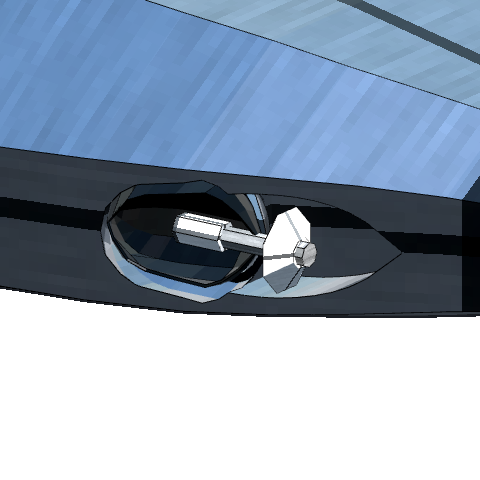
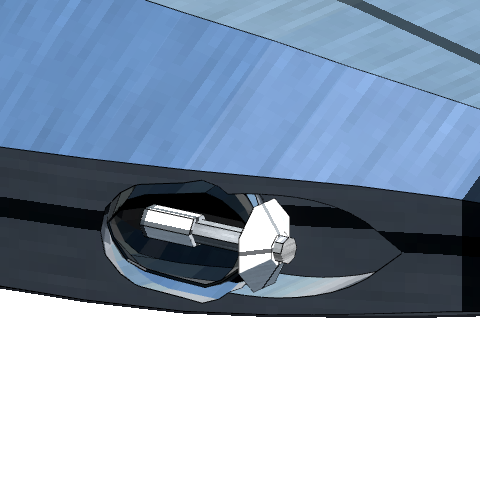
The Needletail's port rack and port dish from one root at the bay's back, at one diameter
The rack's drum and the dish's sleeve both start just ahead of the gun's root, so the drum runs
the bay's length and the sleeve rises from its back rather than its middle; both at 0.65 on the
pin, the dish the rack's diameter (Ryan's of the Kite's, 12 November: "same diameter as the
rack"). The two close-ups and the hangar note follow. 1168 tests, 372,142 checks, green.

Claude-Session: https://claude.ai/code/session_017ZqTNddNh63yVRDLZqU1ZV

Changed region(s): [[0.2812, 0.4062, 0.6562, 0.625]]

diff --git a/tools/lowforge/models_low.py b/tools/lowforge/models_low.py
@@ -5942,10 +5942,11 @@ def needletail(b):
     PIN = YC - 1.5 + RUN - 7.68    # the gun's mount at rest, run out, its muzzle just clear of the nose (the port gun is 7.68 long here)
     # Each class rooted in the open bay and run out of the port, none ahead of it on nothing (Ryan,
     # 13 November: "racks, blades and dishes still float out of the front gun ports"): the port
-    # rack's drum and the port dish's sleeve from the bay's widest, the blade's bracket filling it,
-    # the twin barrels' receiver in it.
-    CHEEK_FITS = {"barrel": ("barrel_port", 1.0), "twin_barrel": ("twin_barrel", 0.55, -6.4), "rack": ("rack_port", 0.6, -1.75),
-                  "dish": ("dish_port", 0.6, -3.0), "blade": ("blade", 0.55, -4.0)}
+    # rack's drum and the port dish's sleeve from one root at the bay's back, just ahead of the
+    # gun's, at one diameter (of the Kite's, 12 November: "same diameter as the rack"), the blade's
+    # bracket filling the bay, the twin barrels' receiver in it.
+    CHEEK_FITS = {"barrel": ("barrel_port", 1.0), "twin_barrel": ("twin_barrel", 0.55, -6.4), "rack": ("rack_port", 0.65, -0.5),
+                  "dish": ("dish_port", 0.65, -0.5), "blade": ("blade", 0.55, -4.0)}
 
     def drop(y):
         """The blister's radius at `y`: a round back buried in the skin, its widest over the
